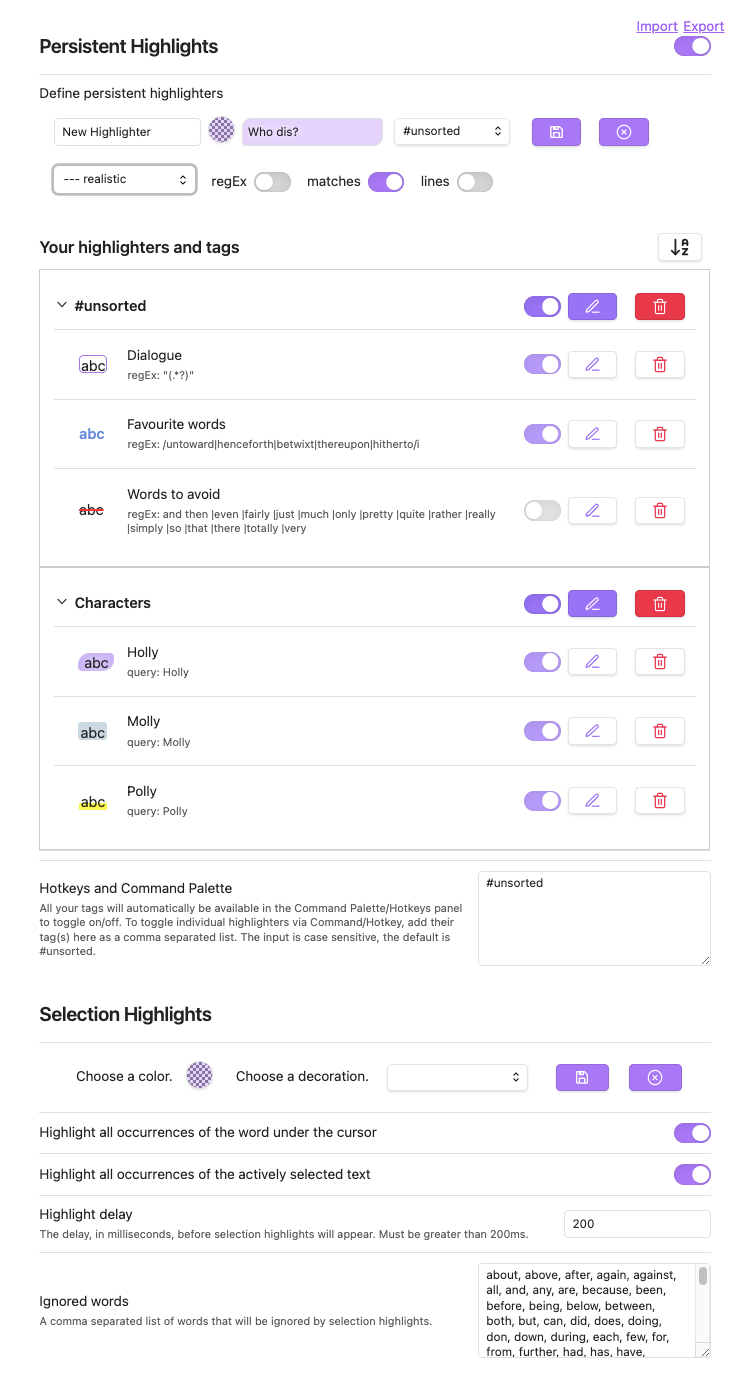
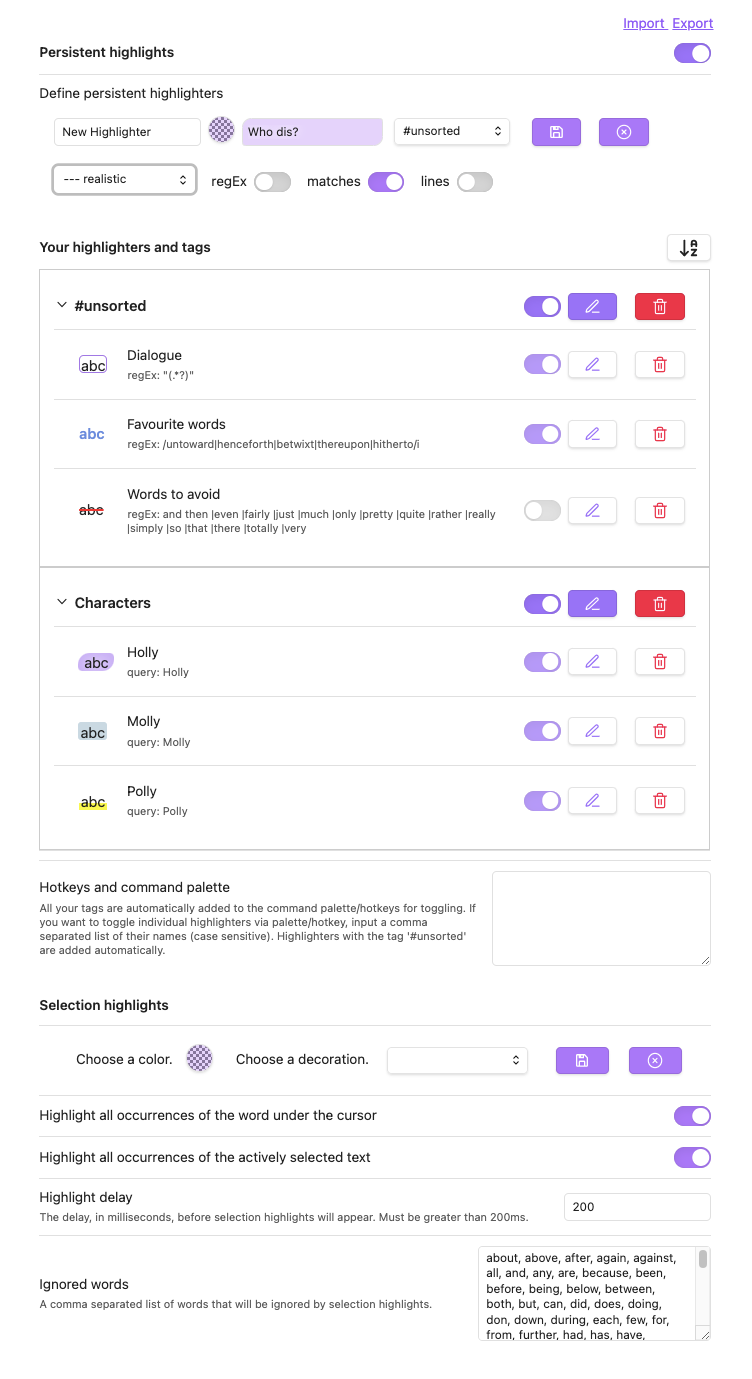
Of course my edits have to be reflected in the readme stuff...

diff --git a/README.md b/README.md
@@ -1,76 +1,135 @@
-This plugin is based on '<a href="https://github.com/nothingislost/obsidian-dynamic-highlights">Dynamic Highlights</a>' by nothingislost. I fixed a bug in the regEx, but otherwise I left the basic mechanics untouched. I just added a lot more customisability and some usability features, which I hope you find worthwhile.
+This plugin is based on
+'<a href="https://github.com/nothingislost/obsidian-dynamic-highlights">Dynamic
+Highlights</a>' by nothingislost. I fixed a bug in the regEx, but otherwise I
+left the basic mechanics untouched. I just added a lot more customisability and
+some usability features, which I hope you find worthwhile.
 
-The four prettiest highlight styles - bg rounded, bg realistic, ul floating and ul lowlight - are from <a href="https://github.com/chetachiezikeuzor/highlightr-Plugin/">Highlightr</a> by chetachiezikeuzor, so if you're using that, aDHL will fit right in, style wise.
+The four prettiest highlight styles - bg rounded, bg realistic, ul floating and
+ul lowlight - are from
+<a href="https://github.com/chetachiezikeuzor/highlightr-Plugin/">Highlightr</a>
+by chetachiezikeuzor, so if you're using that, aDHL will fit right in, style
+wise.
 
-Here's a picture of the settings panel as it looks on desktop, including some use cases and highlighter examples. 
-Scroll down to find all elements explained, left to right, top to bottom. The example queries can be found all the way down.
+Here's a picture of the settings panel as it looks on desktop, including some
+use cases and highlighter examples. Scroll down to find all elements explained,
+left to right, top to bottom. The example queries can be found all the way down.
 
 <img src="https://github.com/tine-schreibt/active_aDHL/blob/main/Another-dynamic-highlights-plugin.png?raw=true">
 
 **Persistent highlights**
 
-- **Import:** Imports settings. Importing highlighters from the original plugin won't work, sorry. But in order to get the benefits of the new plugin, you'll have to touch the settings of each highlighter anyway, so...
+- **Import:** Imports settings. Importing highlighters from the original plugin
+  won't work, sorry. But in order to get the benefits of the new plugin, you'll
+  have to touch the settings of each highlighter anyway, so...
 - **Export:** Exports settings.
-- **Toggle:** This is The Switch that starts/stops all persistent highlights being rendered; find it in the Command Palette/Hotkey panel.
+- **Toggle:** This is The Switch that starts/stops all persistent highlights
+  being rendered; find it in the Command Palette/Hotkey panel.
 
 **Define persistent highlighters**
 
 - **First Row:**
   - **First input field:** Here you input your highlighter's name.
-  - **Checkerboard circle:** This is the color picker. Click on it to get a... well, picker, and the option to input a hexa or hsla. By default it's set to your chosen accent color with an opacity of 0.25.
-  - **Second input field:** Here you input your search query. It also shows what the highlight will look like. If a highlight seems to not be rendered, try upping the opacity of your color or (mostly if you're using a Dark Theme) changing it altogether.
-  - **Dropdown:** All your tags. Choose one or make a new one. Intended to group your highlighters together and make them easier to manage. Find all your tags in the Command Palette/Hotkey panel.
+  - **Checkerboard circle:** This is the color picker. Click on it to get a...
+    well, picker, and the option to input a hexa or hsla. By default it's set to
+    your chosen accent color with an opacity of 0.25.
+  - **Second input field:** Here you input your search query. It also shows what
+    the highlight will look like. If a highlight seems to not be rendered, try
+    upping the opacity of your color or (mostly if you're using a Dark Theme)
+    changing it altogether.
+  - **Dropdown:** All your tags. Choose one or make a new one. Intended to group
+    your highlighters together and make them easier to manage. Find all your
+    tags in the Command Palette/Hotkey panel.
   - **Save button:** Save your highlighters.
-  - **Discard button**: Discard changes; useful when you start to edit a highlighter and then think better of it.
+  - **Discard button**: Discard changes; useful when you start to edit a
+    highlighter and then think better of it.
 - **Second row**
-  - **Dropdown**: So many decoration styles! Choose one that fits your vibe and/or purpose.
-  - **RegEx toggle:** Turn regEx on/off. This obviously uses JavaScript flavoured regEx. Find info here: https://www.regular-expressions.info. As I said, I fixed one bug, but there might be some left.
+  - **Dropdown**: So many decoration styles! Choose one that fits your vibe
+    and/or purpose.
+  - **RegEx toggle:** Turn regEx on/off. This obviously uses JavaScript
+    flavoured regEx. Find info here: https://www.regular-expressions.info. As I
+    said, I fixed one bug, but there might be some left.
   - **Matches toggle:** Toggle on/off if matches will be highlighted.
-  - **Parent line toggle:** Toggle on/off if the parent line of a match will be highlighted.
+  - **Parent line toggle:** Toggle on/off if the parent line of a match will be
+    highlighted.
 
 **Your highlighters and tags**
 
-- **Sort button:** By default newly created tags appear at the top of the list, and newly created highlighters appear at the top inside their tag, its tag also being moved to the top. Once you're done creating, sort it all alphabetically (or don't, I'm not your boss).
-- **Caret**: UI iconography thingy that tells you that this element can be expanded/collapsed.
-- **Tag name:** The name of your tag(s). **#unsorted** is the default tag. Your tags don't need a #, though.
+- **Sort button:** By default newly created tags appear at the top of the list,
+  and newly created highlighters appear at the top inside their tag, its tag
+  also being moved to the top. Once you're done creating, sort it all
+  alphabetically (or don't, I'm not your boss).
+- **Caret**: UI iconography thingy that tells you that this element can be
+  expanded/collapsed.
+- **Tag name:** The name of your tag(s). **#unsorted** is the default tag. Your
+  tags don't need a #, though.
 - **Toggle:** Toggle all highlighters associated with this tag on/off.
-- **Edit button:** Edit the tag name. If you choose a name that already exists, both tags will be merged.
-- **Delete button:** Delete the tag. _This will also delete all highlighters associated with it_, but there's a modal and a hurdle before anything is actually deleted, so you should be safe.
-- **abc icon**: This is a little preview of what your highlighter will look like. I think it looks cute.
-- **Highlighter name and query/regEx:** The name of your highlighter and the stuff that it will highlight. Be sure to check if you have regEx enabled, if your regEx highlight doesn't seem to work.
+- **Edit button:** Edit the tag name. If you choose a name that already exists,
+  both tags will be merged.
+- **Delete button:** Delete the tag. _This will also delete all highlighters
+  associated with it_, but there's a modal and a hurdle before anything is
+  actually deleted, so you should be safe.
+- **abc icon**: This is a little preview of what your highlighter will look
+  like. I think it looks cute.
+- **Highlighter name and query/regEx:** The name of your highlighter and the
+  stuff that it will highlight. Be sure to check if you have regEx enabled, if
+  your regEx highlight doesn't seem to work.
 - **Toggle:** Toggle this highlighter on/off.
 - **Edit button**: Edit your highlighter.
 - **Delete button:** Delete your highlighter.
 
-**Hotkeys and Command Palette**
+**Hotkeys and command palette**
 
-- All your tags will automatically be available in the Command Palette/Hotkeys panel to toggle on/off. To toggle individual highlighters via Command/Hotkey, add their tag(s) here as a comma separated list. The input is case sensitive, the default is #unsorted. Deletions take effect when you reload Obsidian.
-- **Input field:** For the names of the tags whose highlighters you want to toggle individually. Just type or delete away; saving happens automatically.
+- All your tags are automatically added to the command palette/hotkeys for
+  toggling. If you want to toggle individual highlighters via palette/hotkey,
+  you can input a comma separated list of their names (case sensitive).
+  Highlighters with the tag '#unsorted' are added automatically.
+- **Input field:** For the names of the tags whose highlighters you want to
+  toggle individually. Be aware of your spelling, there's no check. Just type or
+  delete away; saving happens automatically, deletions take effect when you
+  reload Obsidian.
 
-**Selection Highlights**
+**Selection highlights**
 
 - **Choose a color:** Self explanatory, really.
-- **Choose a decoration:** All the deco available for static highlighters you also can choose for your dynamic highlights.
-- **Save button:** Save the style you made. I would give you a preview but couldn't figure out how.
+- **Choose a decoration:** All the deco available for static highlighters you
+  also can choose for your dynamic highlights.
+- **Save button:** Save the style you made. I would give you a preview but
+  couldn't figure out how.
 - **Cancel button:** For when you regret your choices.
-- **Highlight all occurrences of the word under the cursor:** Is very useful to avoid repetition on the fly. Find a toggle for this in the Control Palette/Hotkey panel. You can also set a delay.
-- **Highlight all occurrences of the actively selected text:** As the description says. Find a toggle for this also in the Control Palette/Hotkey panel.
-- **Highlight delay:** For when you want the word around your cursor to be highlighted, but only when you stop typing for a moment.
-- **Ignored words:** A list of words you don't want to be highlighted, even when they are under the cursor. By default this field contains the 100 most commonly used words of the English language. Empty it if you like; saving happens automatically.
+- **Highlight all occurrences of the word under the cursor:** Is very useful to
+  avoid repetition on the fly. Find a toggle for this in the Control
+  Palette/Hotkey panel. You can also set a delay.
+- **Highlight all occurrences of the actively selected text:** As the
+  description says. Find a toggle for this also in the Control Palette/Hotkey
+  panel.
+- **Highlight delay:** For when you want the word around your cursor to be
+  highlighted, but only when you stop typing for a moment.
+- **Ignored words:** A list of words you don't want to be highlighted, even when
+  they are under the cursor. By default this field contains the 100 most
+  commonly used words of the English language. Empty it if you like; saving
+  happens automatically.
 
 **Example queries that use regEx**
 
 - **Highlight all dialogue:**
-  - if you're reading this as raw .md, make sure to NOT copy the two backticks \`\`.
+  - if you're reading this as raw .md, make sure to NOT copy the two backticks
+    \`\`.
   - `"(.*?)" ` <- Highlights all between two ""
   - `'(.*?)'` <- Highlights all between two ''
   - `<(.*?)/>` <- Highlights all between < and />
 - **Highlight several words:**
   - same here; don't copy the two backticks \`\`.
-  - `untoward |henceforth |betwixt` <- the pipe - | - means 'or', so this highlights all these words; spaces are there to make it more readable, *they are also part of the search term, though, so instances where the word is followed by a `,` won't be highlighted*. Keep that in mind when phrasing your search. 
-  - `/untoward |henceforth |betwixt/i` <- This highlights all these words, case INsensitive; due to the way regEx is implemented in this plugin, mixing case sensitive and insensitive in a single regEx doesn't work.
+  - `untoward |henceforth |betwixt` <- the pipe - | - means 'or', so this
+    highlights all these words; spaces are there to make it more readable, _they
+    are also part of the search term, though, so instances where the word is
+    followed by a `,` won't be highlighted_. Keep that in mind when phrasing
+    your search.
+  - `/untoward |henceforth |betwixt/i` <- This highlights all these words, case
+    INsensitive; due to the way regEx is implemented in this plugin, mixing case
+    sensitive and insensitive in a single regEx doesn't work.
 
-And that's it. Let me know if I forgot anything.
-I might add a modal for on/off toggling, but only if many people would find that useful.
+And that's it. Let me know if I forgot anything. I might add a modal for on/off
+toggling, but only if many people would find that useful.
 
-If you want to express your joy at finding this neat little piece of code, you can throw me some coin: https://ko-fi.com/tine_schreibt
+If you want to express your joy at finding this neat little piece of code, you
+can throw me some coin: https://ko-fi.com/tine_schreibt
